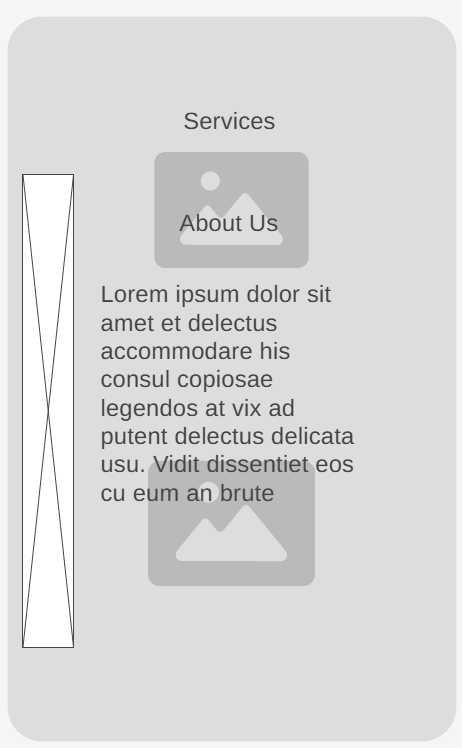
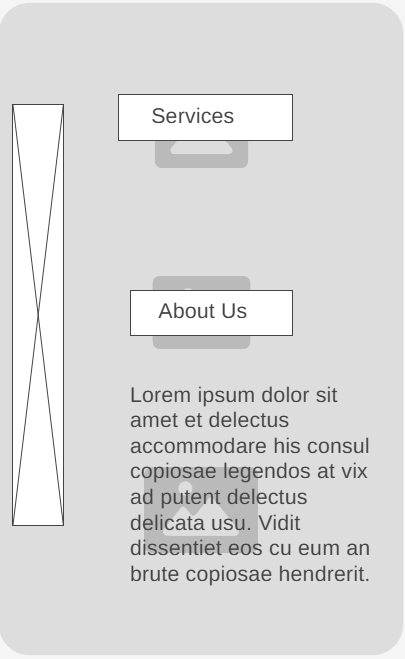
made wireframes more readable

Changed region(s): [[0.2074, 0.1214, 0.9185, 0.8801], [0.0296, 0.1517, 0.1778, 0.8801]]

diff --git a/public_html/documentation/milestone-2.html b/public_html/documentation/milestone-2.html
@@ -25,6 +25,7 @@
     <h3>Divisions/ Selectable Info</h3>
     <p>On mobile the next part of the page will have blocks with images and titles representing dropdown sections with more info about services, the business, pricing. On click the section will open with the relevant info. On desktop the full descriptions can be laid out with a nav bar linking to the headers.</p>
     <img src="mobile-2.png" alt="mobile-phone-wireframe">
+    <img src="pc-2.png" alt="desktop-website-wireframe">
         <div>
             <h4>About Us</h4>
             <p>A general about us page, containing information such as the mission statement. May also include detail information regarding the ownership group, and expected turn around time for any type of service. </p>
@@ -36,7 +37,7 @@
     <h3>Contact Form</h3>
     <p>The last section will be a contact form where the client can submit their Name, Phone Number, and Email if applicable. They will also have a text box where they can detail the services they need and other relevant info.</p>
     <img src="mobile-3.png" alt="mobile-phone-contact-form-wireframe">
-    <img src="pc-2.png" alt="desktop-contact-form-wireframe">
+    <img src="pc-3.png" alt="desktop-contact-form-wireframe">
 </section>
 
 </body>
